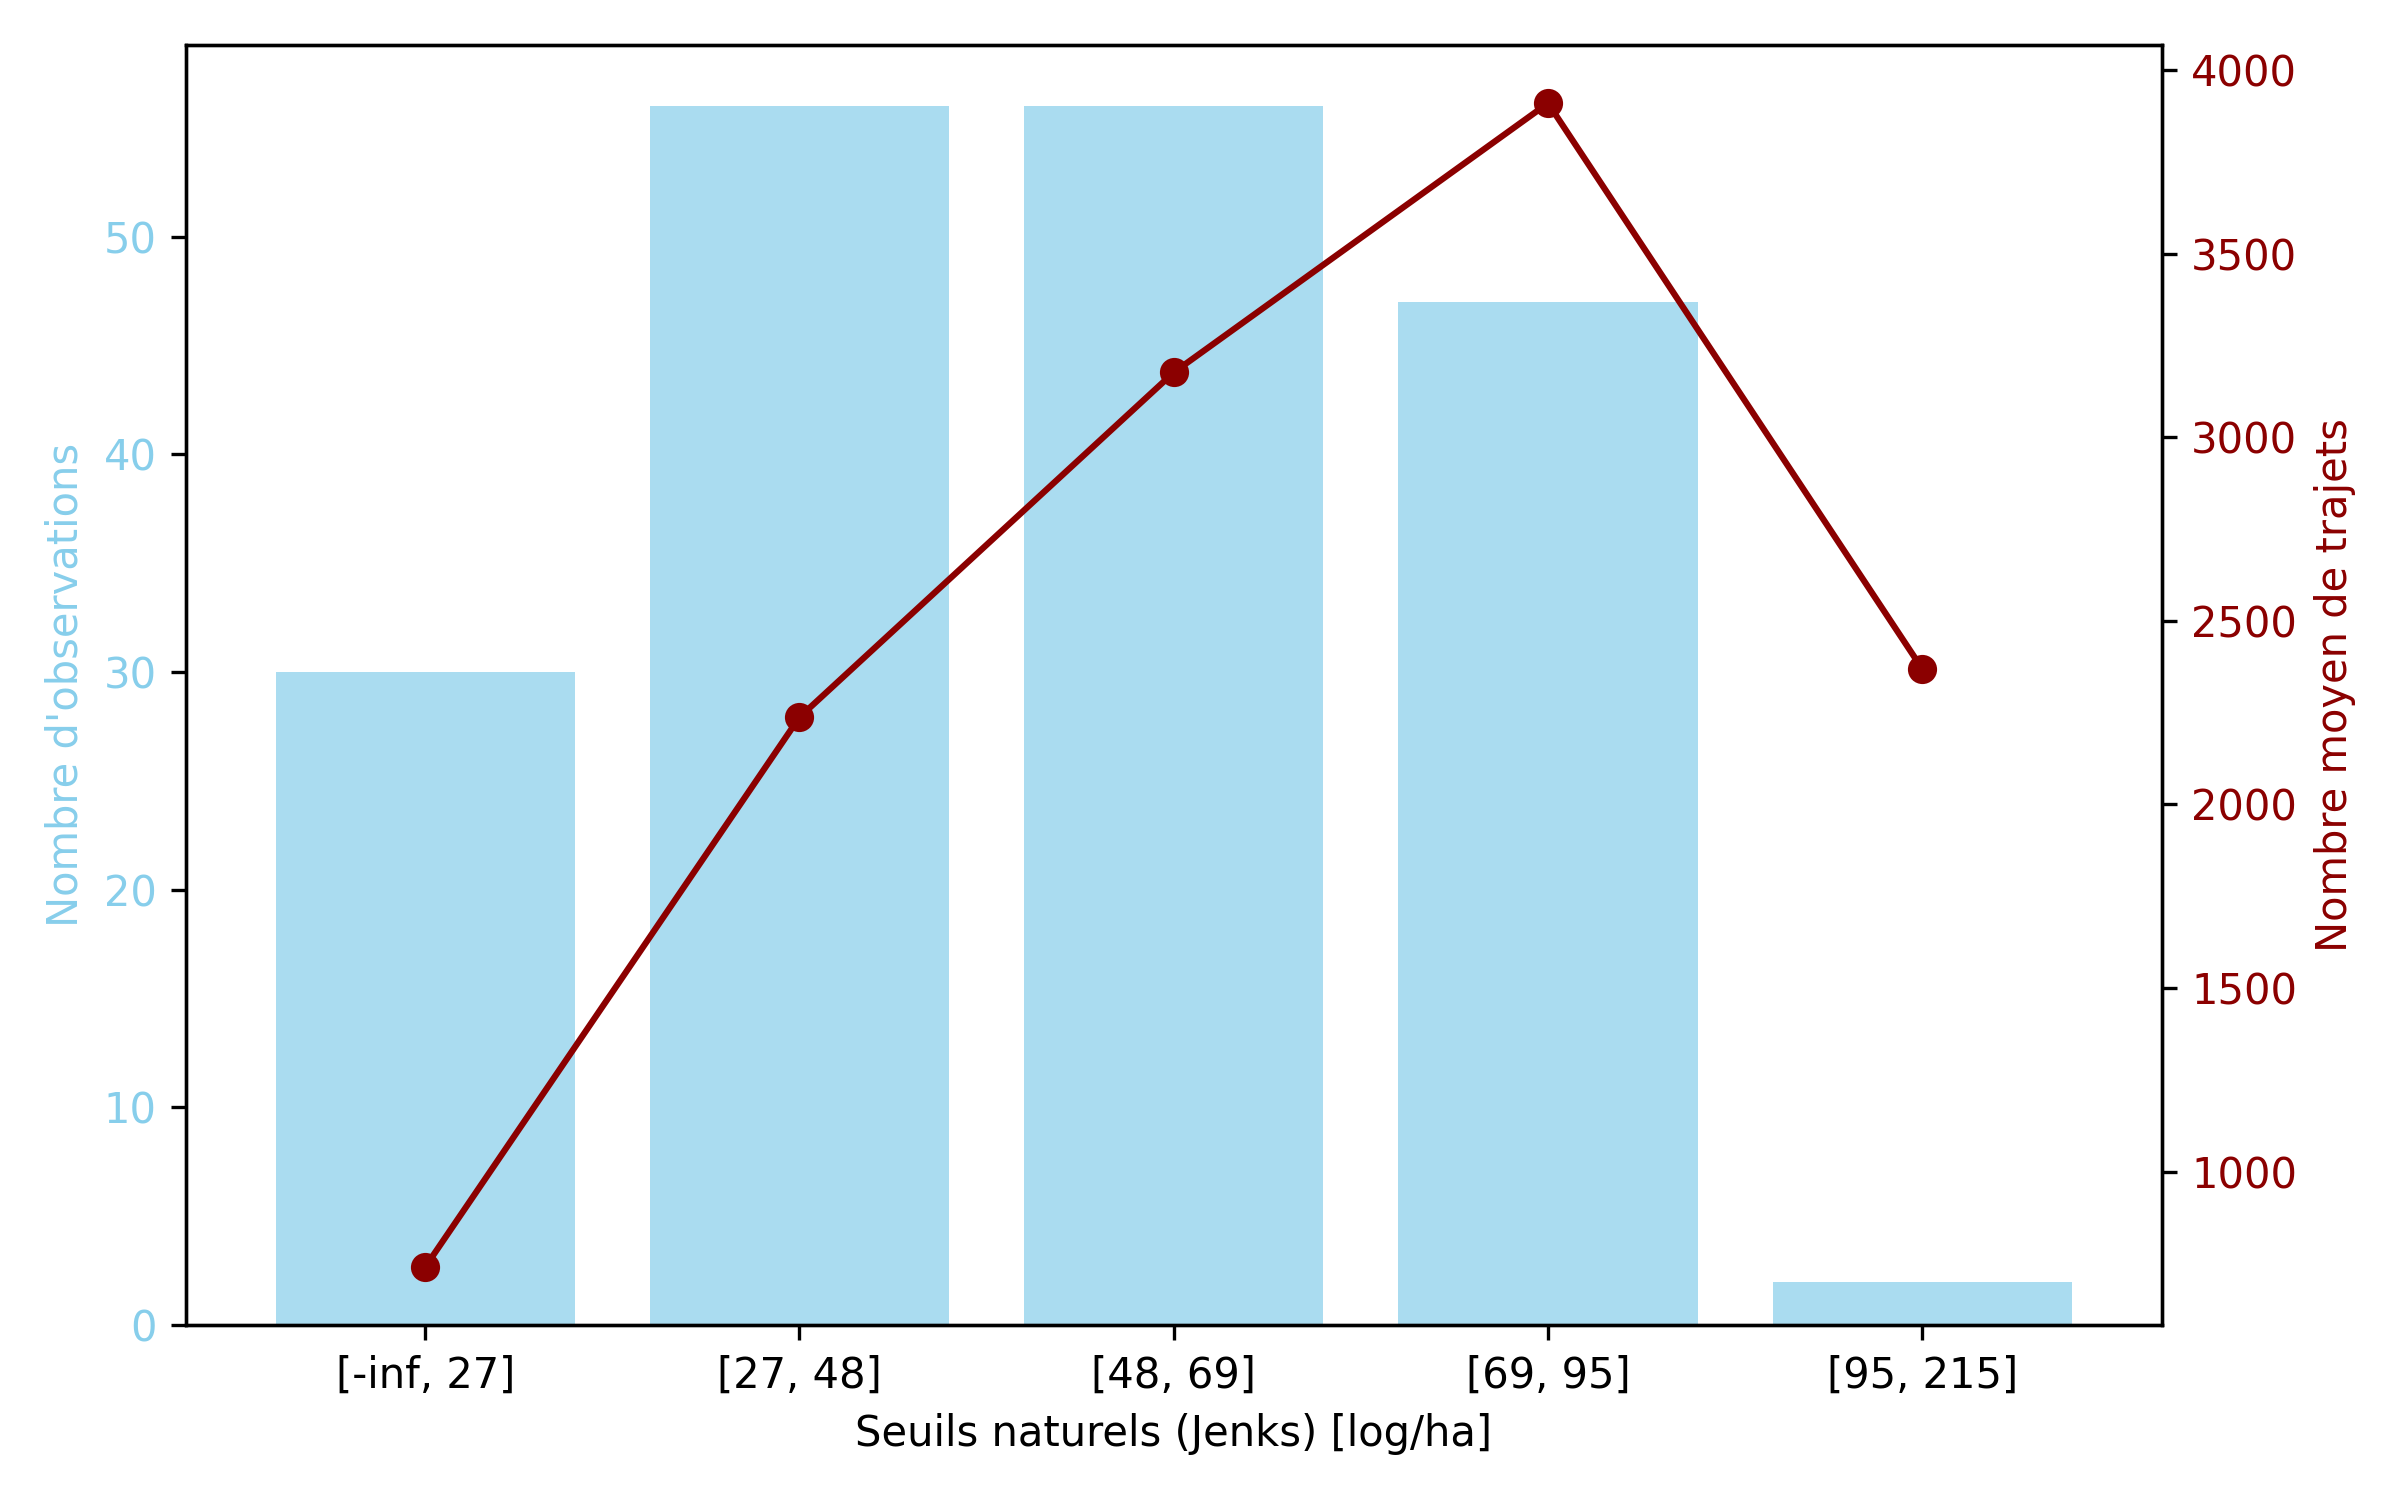
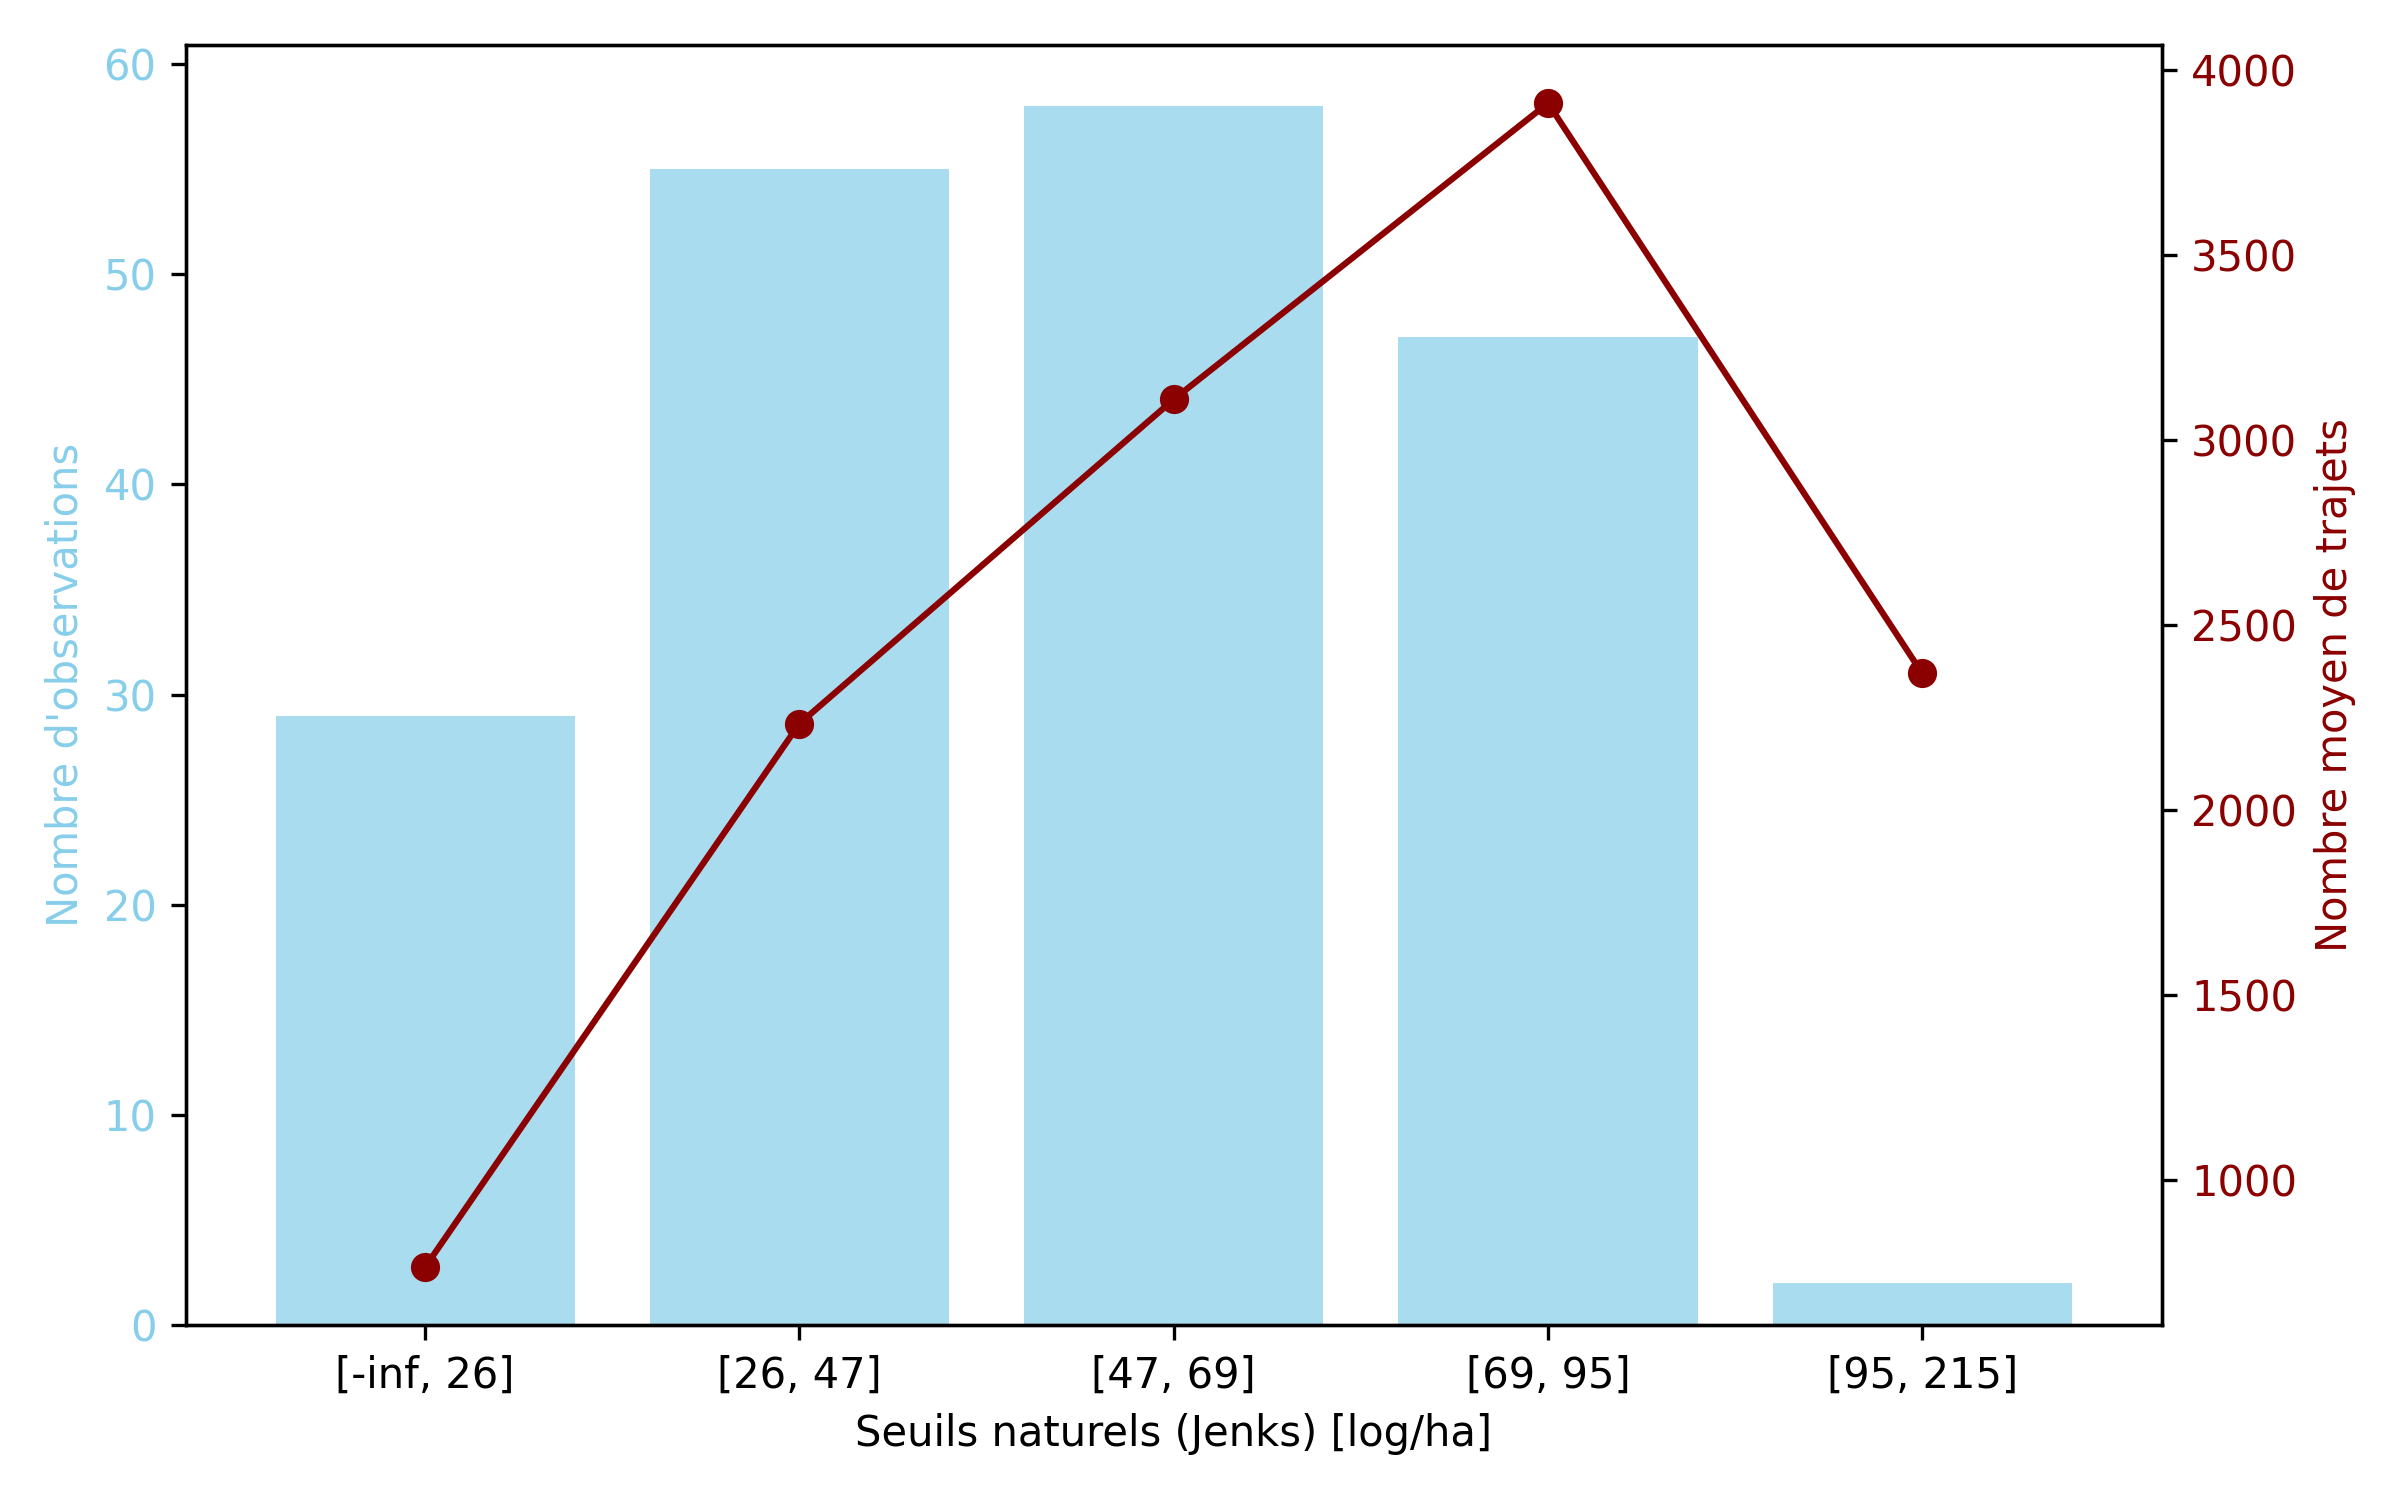
fix winter data

diff --git a/scripts/visuals/generate_visuals.py b/scripts/visuals/generate_visuals.py
@@ -226,7 +226,7 @@ def analyser_zonage(hexagones, output_path ):
 
 def main():
     # Chargement des données
-    season = "ete_2024"
+    season = "hiver_2425"
     if season == "ete_2024":
         hexagones = gpd.read_file("../../data/processed/ete_2024/hexagones250m_ete_2024_popdens_bikepath_parcs_universites_zonage_logement_cegep.shp")
     elif season == "hiver_2324":
